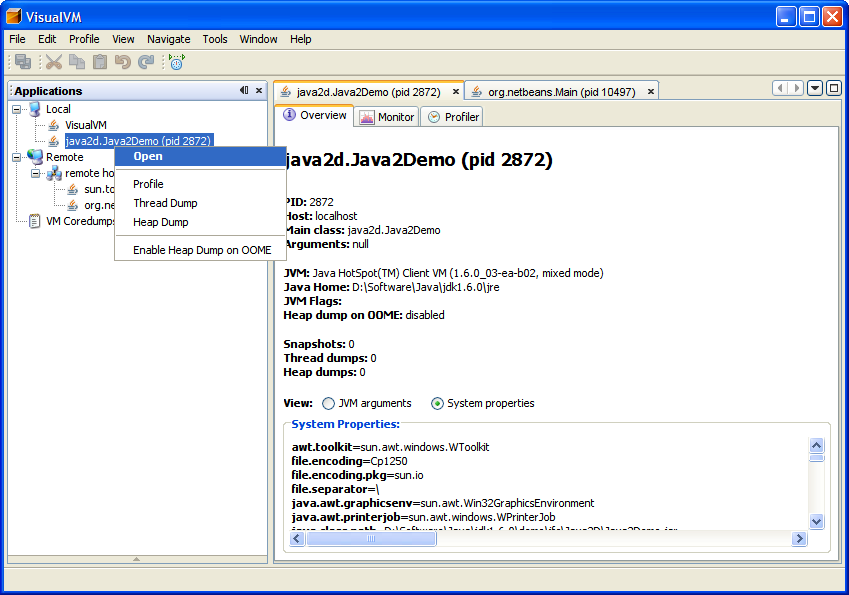
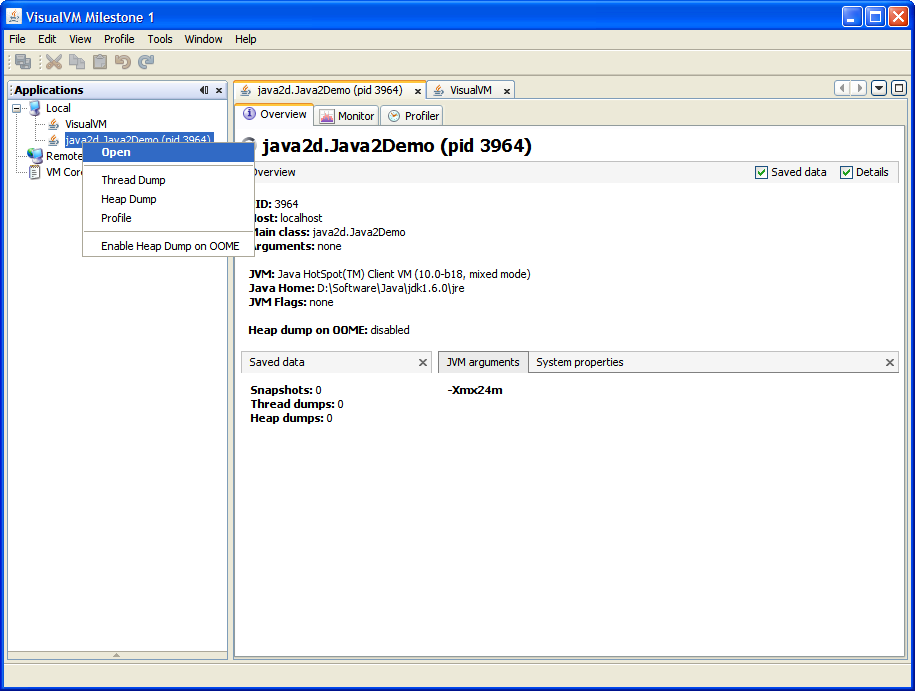
Releasing VisualVM Milestone 1

Changed region(s): [[0.0, 0.0, 1.0, 0.9681]]

diff --git a/trunk/www/index.html b/trunk/www/index.html
@@ -52,6 +52,8 @@
           <!--                                                               -->
           
           <h4 style="margin-top: 5px; margin-bottom: 5px;">News</h4>
+          <p style="margin-top: 0px; margin-bottom: 3px;"><i>January 15th, 2008:</i> VisualVM Milestone 1 released. Major changes in this release: improved UI, better support
+          for Sun and BEA virtual machines, simple localhost viewer, recognition of some applications (Ant, Tomcat, GlassFish/SJSAS, JBoss, NetBeans etc.).</p>
           <p style="margin-top: 0px; margin-bottom: 3px;"><i>November 19th, 2007:</i> VisualVM Preview 2 released. This release introduces Plugin Center, a repository
           where you can get extensions to VisualVM (currently MBeans browser and VisualGC are available). Other news: new About dialog,
           latest profiler bugfixes, latest NetBeans platform, usability improvements.</p>
@@ -64,12 +66,12 @@
                 <tr><td style="vertical-align: middle;"><b>Feature</b></td><td style="text-align:center;" width="15%"><b>JDK 1.4.2<br><small>local/remote</small></b></td><td style="text-align:center;" width="15%"><b>JDK 5.0<br><small>local/remote</small></b></td><td style="text-align:center;" width="15%"><b>JDK 6.0<br><small>local</small></b></td><td style="text-align:center;" width="15%"><b>JDK 6.0<br><small>remote</small></b></td></tr>
                 <tr><td>Overview</td><td style="text-align:center;"><img src="images/check.png"/></td><td style="text-align:center;"><img src="images/check.png"/></td><td style="text-align:center;"><img src="images/check.png"/></td><td style="text-align:center;"><img src="images/check.png"/></td></tr>
                 <tr><td>System Properties (in Overview)</td><td style="text-align:center;">&nbsp</td><td>&nbsp</td><td style="text-align:center;"><img src="images/check.png"/></td><td>&nbsp</td></tr>
-                <tr><td>Monitor</td><td>&nbsp</td><td style="text-align:center;"><img src="images/check.png"/></td><td style="text-align:center;"><img src="images/check.png"/></td><td style="text-align:center;"><img src="images/check.png"/></td></tr>
+                <tr><td>Monitor</td><td style="text-align:center;"><img src="images/check.png"/></td><td style="text-align:center;"><img src="images/check.png"/></td><td style="text-align:center;"><img src="images/check.png"/></td><td style="text-align:center;"><img src="images/check.png"/></td></tr>
                 <tr><td>Profiler</td><td>&nbsp</td><td>&nbsp</td><td style="text-align:center;"><img src="images/check.png"/></td><td>&nbsp</td></tr>
                 <tr><td>Thread Dump</td><td>&nbsp</td><td>&nbsp</td><td style="text-align:center;"><img src="images/check.png"/></td><td>&nbsp</td></tr>
                 <tr><td>Heap Dump</td><td>&nbsp</td><td>&nbsp</td><td style="text-align:center;"><img src="images/check.png"/></td><td>&nbsp</td></tr>
                 <tr><td>Enable Heap Dump on OOME</td><td>&nbsp</td><td>&nbsp</td><td style="text-align:center;"><img src="images/check.png"/></td><td>&nbsp</td></tr>
-                <tr><td>MBean Browser</td><td>&nbsp</td><td style="text-align:center;"><img src="images/check.png"/></td><td style="text-align:center;"><img src="images/check.png"/></td><td style="text-align:center;"><img src="images/check.png"/></td></tr>
+                <tr><td>MBeans Browser</td><td>&nbsp</td><td style="text-align:center;"><img src="images/check.png"/></td><td style="text-align:center;"><img src="images/check.png"/></td><td style="text-align:center;"><img src="images/check.png"/></td></tr>
             </table>
           </p>
           
@@ -94,7 +96,7 @@
           <div style="border: 1px solid #696; padding: 5px 5px 5px 10px;">
               Latest release:
               <ul style="margin-left: 10px; padding-left: 10px; margin-top: 3px; padding-top: 3px; margin-bottom: 3px; padding-bottom: 2px;">
-                <li><a href="https://visualvm.dev.java.net/files/documents/7163/76190/visualvm-preview2.zip">Preview 2</a> (zip, 7MB)</li>
+                <li><a href="https://visualvm.dev.java.net/files/documents/7163/82473/visualvm_milestone1.zip">Milestone 1</a> (zip, 7.8MB)</li>
               </ul>
           </div>
 

diff --git a/trunk/www/description.html b/trunk/www/description.html
@@ -167,7 +167,7 @@
                 </ul>
             </ul>
 
-        <a name="feature_matrix"></a>
+        <!--a name="feature_matrix"></a>
         <h3>JDK Dependent Feature Matrix</h3>
         <p>The VisualVM features that are available depend on the JDK version that
             is used to run your application.  All features are available if your application
@@ -184,7 +184,7 @@
             <tr><td>Heap Dump</td><td>&nbsp</td><td>&nbsp</td><td style="text-align:center;"><img src="images/check.png"/></td><td>&nbsp</td></tr>
             <tr><td>Enable Heap Dump on OOME</td><td>&nbsp</td><td>&nbsp</td><td style="text-align:center;"><img src="images/check.png"/></td><td>&nbsp</td></tr>
             <tr><td>MBean Browser</td><td>&nbsp</td><td style="text-align:center;"><img src="images/check.png"/></td><td style="text-align:center;"><img src="images/check.png"/></td><td style="text-align:center;"><img src="images/check.png"/></td></tr>
-        </table>
+        </table-->
         
 <!-- GOOGLE ANALYTICS TRACKING FOR PROFILER -->    
 <script src="https://ssl.google-analytics.com/urchin.js" type="text/javascript">
